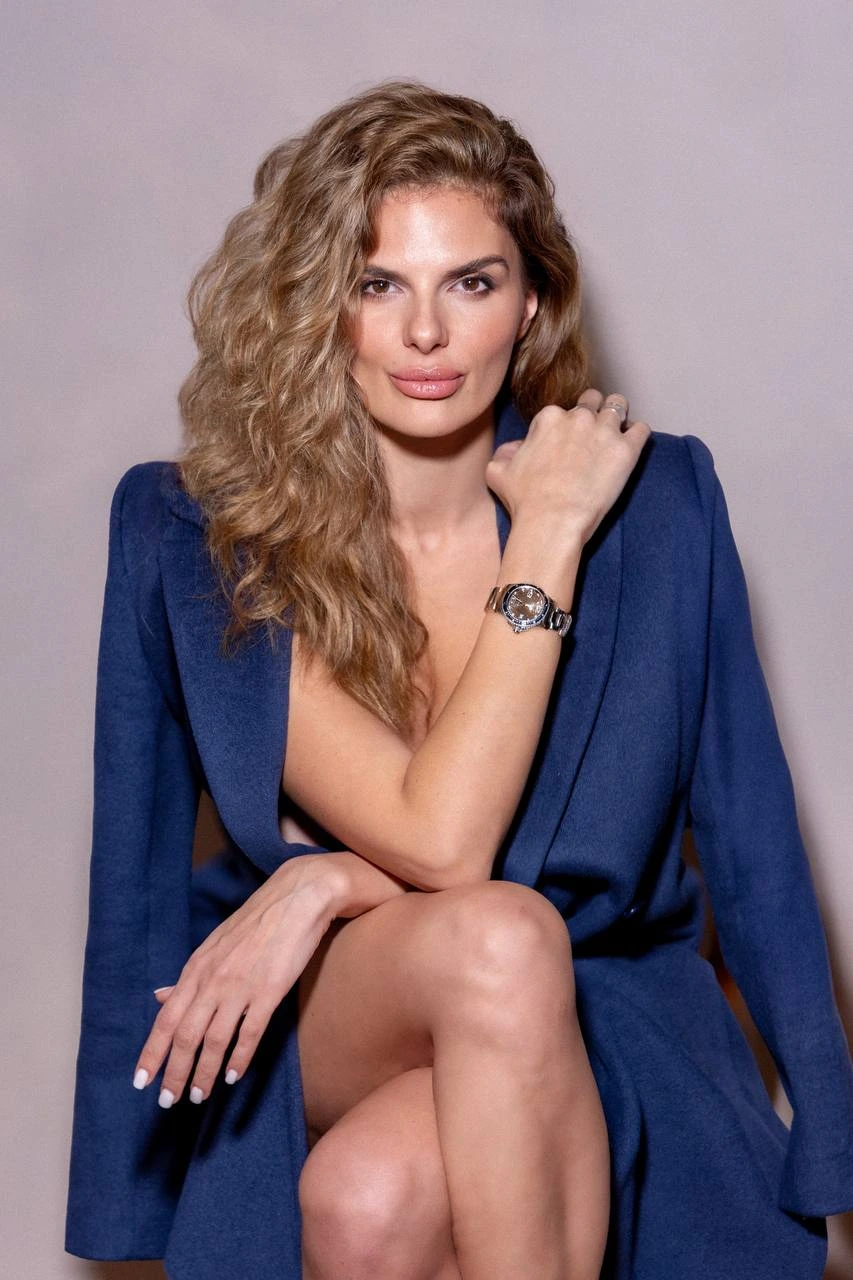
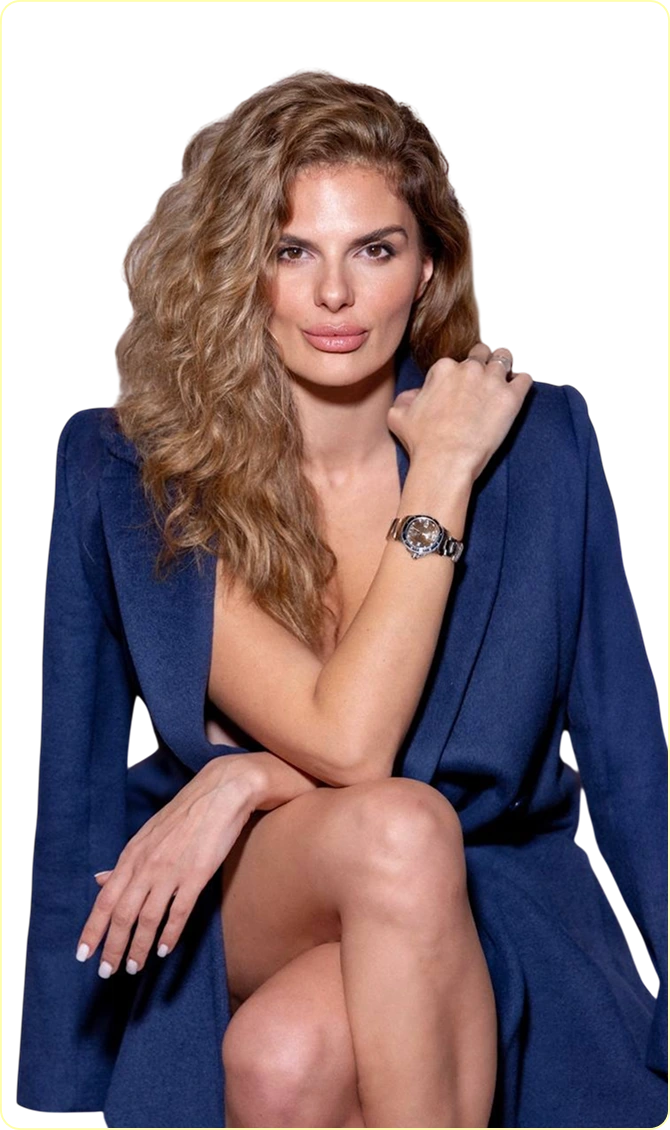
add new speakers

diff --git a/src/components/SpeakersSection/SpeakersSection.jsx b/src/components/SpeakersSection/SpeakersSection.jsx
@@ -81,9 +81,60 @@ export default function SpeakersSection() {
     },
     {
       id: 6,
-      speakerName: "це ще не все!\nочікуй інформацію!",
+      speakerName: "Стрипко\nТаня",
       speakerTema: "",
       swiperSlideBackground: "swiperSlideBackground6",
+      speakerInstagram:
+        "https://www.instagram.com/todorivaaa?igsh=MXBxamM1YzlnMmxxMg%3D%3D&utm_source=qr",
+      speakerClass: "speakerNameClass6",
+      numberOfSpeaker: "(06)",
+      moreInfoBtnClass: "moreInfoBtn",
+      contentDetails:
+        "Підприємиця з досвідом на трьох континентах: відкривала салони краси в таких країнах, як - Україна, Італія, Канада. Продюсер, власниця продюсерської агенції - заробила за 2 роки собі і експертам запуски на 1000000+$. Навчаю запускати навчальні проєкти, створювати  бренди з нуля. Запускаю експертів, які не просто красиво говорять, а дорого продають, власниця продюсерської агенції.",
+    },
+    {
+      id: 7,
+      speakerName: "Щигрова\nЄвгенія",
+      speakerTema: "",
+      swiperSlideBackground: "swiperSlideBackground7",
+      speakerInstagram: "https://www.instagram.com/j.a.n.e_she/",
+      speakerClass: "speakerNameClass7",
+      numberOfSpeaker: "(07)",
+      moreInfoBtnClass: "moreInfoBtn",
+      contentDetails:
+        "Дипломований спеціаліст у галузі «Фізична реабілітація» , персональний Тренер напрямку Stretching міжнародного рівня, власниця Online студії Jane System, спеціаліст з фітнес консалтінгу",
+    },
+    {
+      id: 8,
+      speakerName: "Токар\nЯна",
+      speakerTema: "",
+      swiperSlideBackground: "swiperSlideBackground8",
+      speakerInstagram:
+        "https://www.instagram.com/dr.yana_tokar_?igsh=YTd1cmMwcXJ3MHhv",
+      speakerClass: "speakerNameClass8",
+      numberOfSpeaker: "(08)",
+      moreInfoBtnClass: "moreInfoBtn",
+      contentDetails:
+        'Дерматологиня, хірургиня, доктор медицини, незалежний експерт світових брендів, спікер міжнародних конгресів, автор книги "Сонячна контрацепція" та YouTube каналу "не косметолог, а ЛІКАР", засновниця University of aesthetic medicine, спікер Польського інституту естетичної медицини.',
+    },
+    {
+      id: 9,
+      speakerName: "Шотропа\nМішель",
+      speakerTema: "",
+      swiperSlideBackground: "swiperSlideBackground9",
+      speakerInstagram:
+        "https://www.instagram.com/mishel_shotropa?igsh=MTQycHk2OWZtNHV5cg==",
+      speakerClass: "speakerNameClass9",
+      numberOfSpeaker: "(09)",
+      moreInfoBtnClass: "moreInfoBtn",
+      contentDetails:
+        'Власниця маркетингової та PR-компанії "SHOTROPA MEDIA". 11 років у бізнесі. CEO "INSTAHACKS" - перше міжнародне комʼюніті для експертів. Співпрацюю з CHELSEA. Більше 4000+ учнів моїх навчальних програм по цілому світу',
+    },
+    {
+      id: 12,
+      speakerName: "це ще не все!\nочікуй інформацію!",
+      speakerTema: "",
+      swiperSlideBackground: "swiperSlideBackground12",
       speakerInstagram: "",
       speakerClass: "speakerNameClassLast",
       numberOfSpeaker: "(06)",

diff --git a/src/components/SpeakersSection/SpeakersSection.module.css b/src/components/SpeakersSection/SpeakersSection.module.css
@@ -78,7 +78,43 @@
   border: 1px solid #ffffac;
   border-radius: 10px;
 }
-.SpeakersSection :global(.mySwiper) .swiperSlideBackground6{
+.SpeakersSection :global(.mySwiper) .swiperSlideBackground6 {
+    width: 335px;
+    height: 565px;
+    background-image: url(./Stripko.webp);
+    background-position: center;
+    background-size: cover;
+    border: 1px solid #ffffac;
+    border-radius: 10px;
+  }
+  .SpeakersSection :global(.mySwiper) .swiperSlideBackground7 {
+    width: 335px;
+    height: 565px;
+    background-image: url(./Shihrova.webp);
+    background-position: center;
+    background-size: cover;
+    border: 1px solid #ffffac;
+    border-radius: 10px;
+  }
+  .SpeakersSection :global(.mySwiper) .swiperSlideBackground8 {
+    width: 335px;
+    height: 565px;
+    background-image: url(./Tokar.webp);
+    background-position: center;
+    background-size: cover;
+    border: 1px solid #ffffac;
+    border-radius: 10px;
+  }
+  .SpeakersSection :global(.mySwiper) .swiperSlideBackground9 {
+    width: 335px;
+    height: 565px;
+    background-image: url(./Shotropa.webp);
+    background-position: center;
+    background-size: cover;
+    border: 1px solid #ffffac;
+    border-radius: 10px;
+  }
+.SpeakersSection :global(.mySwiper) .swiperSlideBackground12{
     width: 335px;
   height: 565px;
   background-position: center;
@@ -99,7 +135,7 @@
     left: 50%;
     transform: translate(-50%, -130%);
 }
-.SpeakersSection :global(.mySwiper) .swiperSlideBackground6 .wrapperSpeakerInstargram{
+.SpeakersSection :global(.mySwiper) .swiperSlideBackground12 .wrapperSpeakerInstargram{
     display: none;
 }
 .wrapperSpeakerInfo {
@@ -118,6 +154,10 @@
 .speakerNameClass3,
 .speakerNameClass4,
 .speakerNameClass5,
+.speakerNameClass6,
+.speakerNameClass7,
+.speakerNameClass8,
+.speakerNameClass9,
 .speakerNameClassLast {
   display: flex;
   gap: 10px;
@@ -133,7 +173,7 @@
   font-weight: 800;
 text-transform: uppercase;
 }
-.speakerNameClass1, .speakerNameClass2, .speakerNameClass4, .speakerNameClass5{
+.speakerNameClass1, .speakerNameClass2, .speakerNameClass4, .speakerNameClass5, .speakerNameClass6, .speakerNameClass7, .speakerNameClass8, .speakerNameClass9{
     font-size: 22px;
 }
 .speakerNameClass3{
